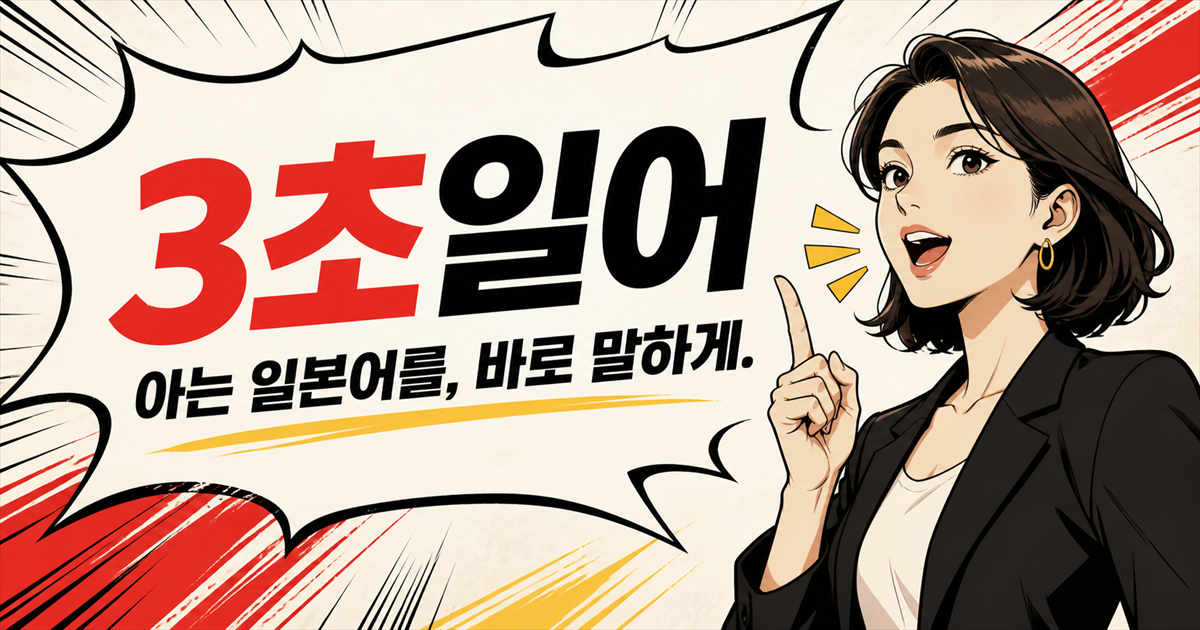
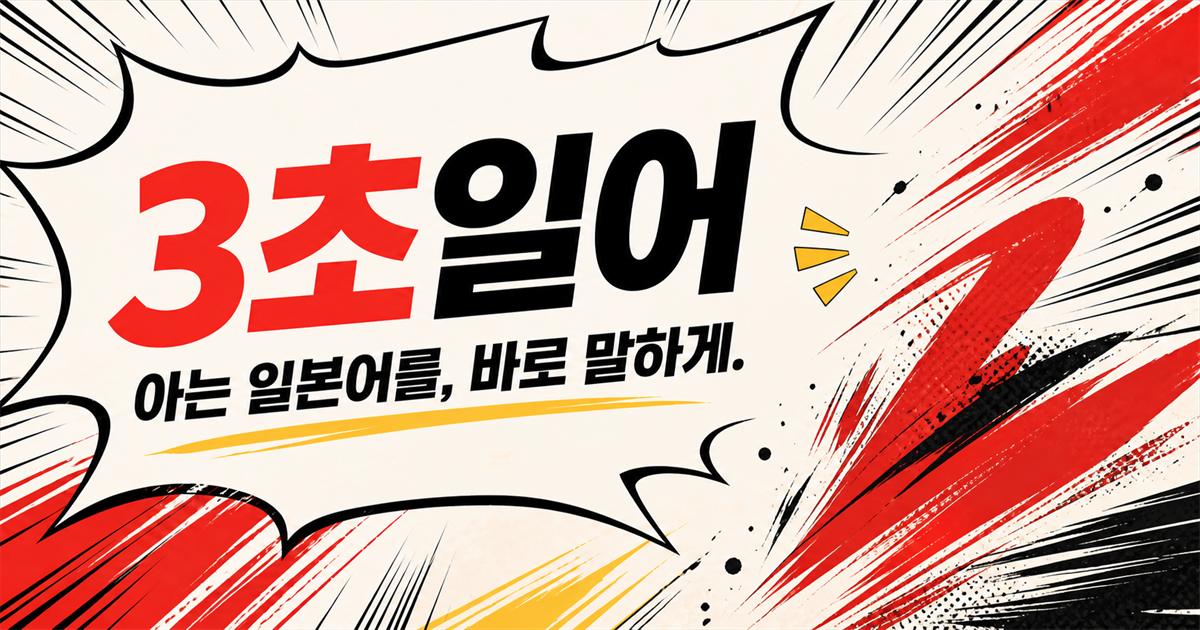
Publish character-free preview image

diff --git a/404.html b/404.html
@@ -15,7 +15,7 @@
     />
     <meta
       property="og:image"
-      content="https://zumurf-ux.github.io/three-second-japanese-app/og.png"
+      content="https://zumurf-ux.github.io/three-second-japanese-app/og.png?v=characterless-20260824"
     />
     <link rel="icon" href="/three-second-japanese-app/favicon.svg" />
     <title>3초일어 | 일본어 반사 학습</title>

diff --git a/index.html b/index.html
@@ -15,7 +15,7 @@
     />
     <meta
       property="og:image"
-      content="https://zumurf-ux.github.io/three-second-japanese-app/og.png"
+      content="https://zumurf-ux.github.io/three-second-japanese-app/og.png?v=characterless-20260824"
     />
     <link rel="icon" href="/three-second-japanese-app/favicon.svg" />
     <title>3초일어 | 일본어 반사 학습</title>
